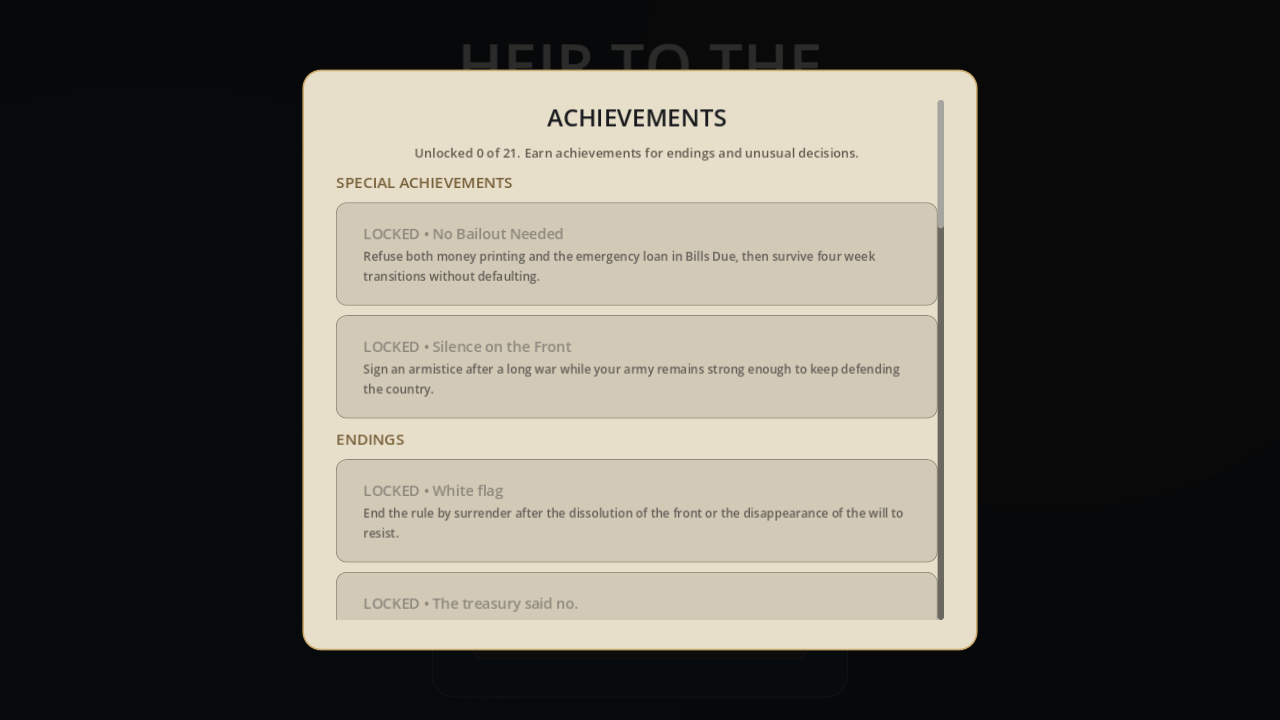
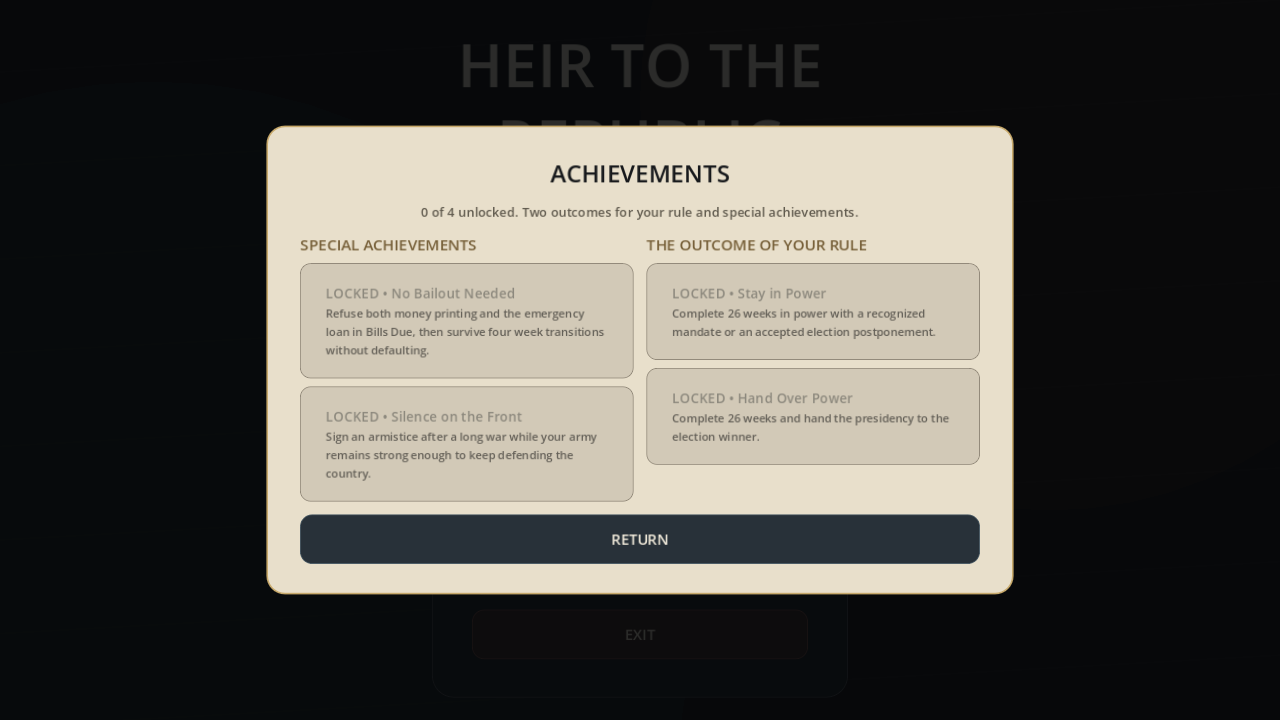
feat: simplify ending achievements and highlight new unlocks

Changed region(s): [[0.1875, 0.0917, 0.8125, 0.9167]]

diff --git a/README.md b/README.md
@@ -15,7 +15,7 @@
 - условный кризисный доклад может стать дополнительным четвёртым событием недели и не заменяет три базовых события;
 - сухие карточки-доклады с двумя решениями и редким третьим вариантом;
 - четыре редких личных события разбавляют ведомственные доклады короткими разговорами с супругой и персоналом резиденции; реплики учитывают действия игрока, а история о пропавшей бутылке всегда называет действующего министра обороны;
-- отдельный экран достижений открывается из главного меню; каждая из 19 доступных концовок открывает собственное постоянное достижение. «Счета без спасателей» выдаётся за четыре перехода к новой неделе после отказа от экстренной помощи без дефолта, а «Тишина на фронте» — за вступившее в силу перемирие. Достижения хранятся независимо от сохранения кампании;
+- отдельный экран достижений открывается из главного меню; два достижения отмечают удержание власти к концу 26-й недели или передачу поста победителю выборов. «Счета без спасателей» выдаётся за четыре перехода к новой неделе после отказа от экстренной помощи без дефолта, а «Тишина на фронте» — за вступившее в силу перемирие. Новое достижение подсвечивает кнопку главного меню до просмотра; достижения хранятся независимо от сохранения кампании;
 - точные изменения после решения; приблизительные подсказки под вариантами ответа по умолчанию скрыты, их можно включить в настройках;
 - малые и ключевые события построены как ситуационные обмены: дешёвый вариант обычно переносит цену на поддержку, стабильность, армию или конкретную группу, а не служит бесплатным отказом;
 - в случайный пул входят вымышленные истории с мотивами постсоветской политики: единый новостной эфир, конфликт центра с губернатором, электронные повестки, возвращение оппозиционного политика и парламентский коррупционный скандал; возвращение политика получает зависимое продолжение через две недели;
